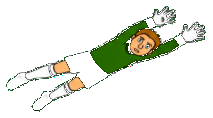
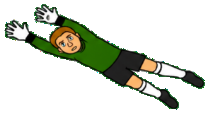
Zet de juiste duik op rechts en houd de broek van de keeper zichtbaar.

diff --git a/components/games/PenaltyShootout.tsx b/components/games/PenaltyShootout.tsx
@@ -86,8 +86,8 @@ export function PenaltyShootout({
         <img className="penalty-bg" src={showDive ? "/penalty/leeg.jpg" : "/penalty/start.jpg"} alt="" />
         {showDive ? (
           <>
-            <img className={`penalty-keeper ${last.keeper}`} src={`/penalty/keeper-${last.keeper}.png`} alt="" />
-            <img className={`penalty-ball ${last.aim} ${last.goal ? "is-goal" : "is-save"}`} src="/penalty/bal.png" alt="" />
+            <img className={`penalty-keeper ${last.keeper}`} src={`/penalty/keeper-${last.keeper}.png?v=2`} alt="" />
+            <img className={`penalty-ball ${last.aim} ${last.goal ? "is-goal" : "is-save"}`} src="/penalty/bal.png?v=2" alt="" />
           </>
         ) : null}
         {showDive ? <p className={`penalty-caption ${last.goal ? "is-goal" : "is-save"}`} aria-live="polite">{last.line}</p> : null}
